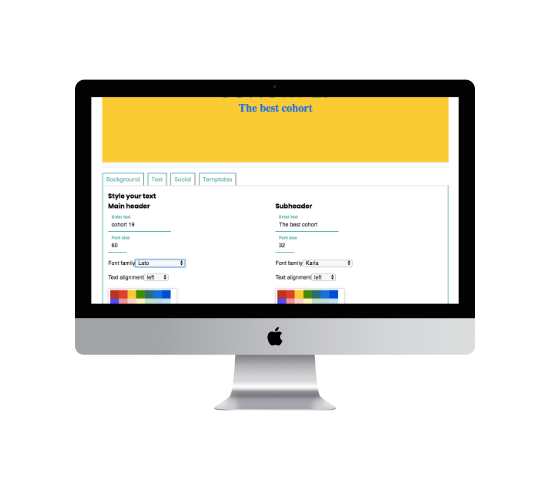
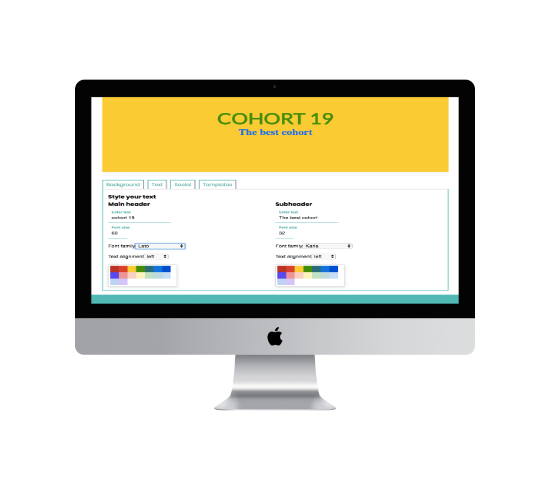
styled homepage Bill

Changed region(s): [[0.1545, 0.3055, 0.8345, 0.6415], [0.4018, 0.2138, 0.6182, 0.2749]]

diff --git a/src/partials/_home.scss b/src/partials/_home.scss
@@ -31,7 +31,7 @@
     &--background {
         height: 60vh;
         background-image: url('../src/assets/screen2.png');
-        background-size: 70%;
+        /* background-size: 70%; */
         margin: 0 auto;
         background-repeat: no-repeat;
         background-position: center;
@@ -45,7 +45,7 @@
         }
     }
     &--h1 {
-        text-shadow: 2px 2px 5px #000;
+        text-shadow: 2px 2px 2px $darkGrey;
         line-height: 6rem;
         margin-bottom: 10px;
     }
@@ -65,6 +65,46 @@
         background-color: $accentColor;
     }
 }
+
+@media (max-width: 1150px) {
+    .homePage--h1 {
+        font-size: 4rem;
+    }    
+}
+
+@media (max-width: 760px) {
+    .homePage--h1 {
+        font-size: 3.5rem;
+        line-height: 3.5rem
+    }
+    .homePage--h2 {
+        font-size: 2.5rem;   
+    }
+    .homePage--background {
+        height:60vh;
+
+    }
+}
+
+@media (max-width: 550px) {
+    
+
+    .homePage--h1 {
+        font-size: 3rem;
+        line-height: 4.5rem;
+    }
+    .homePage--h2 {
+        font-size: 2rem;
+    }
+
+    .homePage--background {
+        margin:-15%;
+        background-size: 100%;
+        height: 55vh;
+
+    }
+}
+
 
 .startLink {
     @extend %button;

diff --git a/src/index.css b/src/index.css
@@ -347,14 +347,14 @@ h1.template__title {
   .homePage--background {
     height: 60vh;
     background-image: url("../src/assets/screen2.png");
-    background-size: 70%;
+    /* background-size: 70%; */
     margin: 0 auto;
     background-repeat: no-repeat;
     background-position: center; }
   .homePage--howTo h2 {
     margin-bottom: 20px; }
   .homePage--h1 {
-    text-shadow: 2px 2px 5px #000;
+    text-shadow: 2px 2px 2px #838383;
     line-height: 6rem;
     margin-bottom: 10px; }
   .homePage--h2 {
@@ -365,6 +365,30 @@ h1.template__title {
     background: white; }
   .homePage--start {
     background-color: #30b8b2; }
+
+@media (max-width: 1150px) {
+  .homePage--h1 {
+    font-size: 4rem; } }
+
+@media (max-width: 760px) {
+  .homePage--h1 {
+    font-size: 3.5rem;
+    line-height: 3.5rem; }
+  .homePage--h2 {
+    font-size: 2.5rem; }
+  .homePage--background {
+    height: 60vh; } }
+
+@media (max-width: 550px) {
+  .homePage--h1 {
+    font-size: 3rem;
+    line-height: 4.5rem; }
+  .homePage--h2 {
+    font-size: 2rem; }
+  .homePage--background {
+    margin: -15%;
+    background-size: 100%;
+    height: 55vh; } }
 
 .startLink {
   background: white; }
